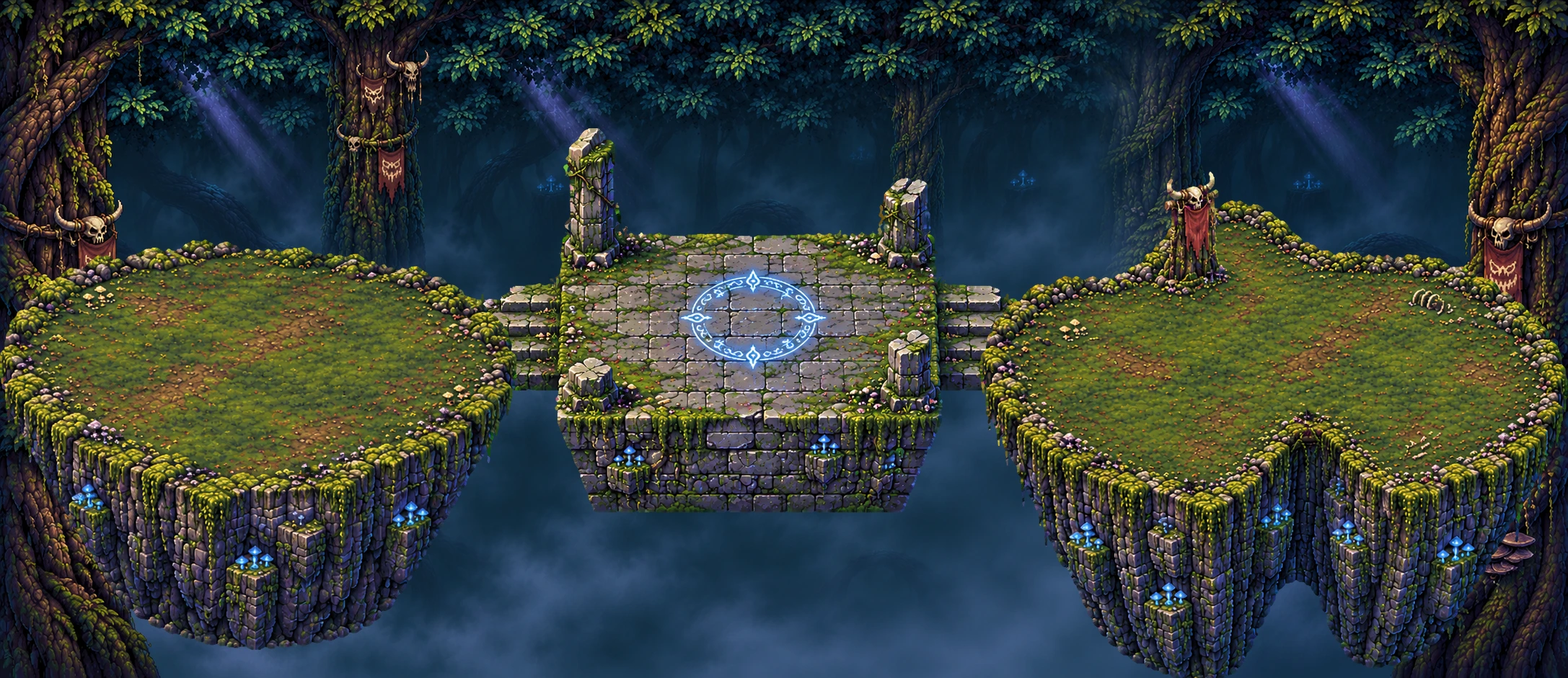
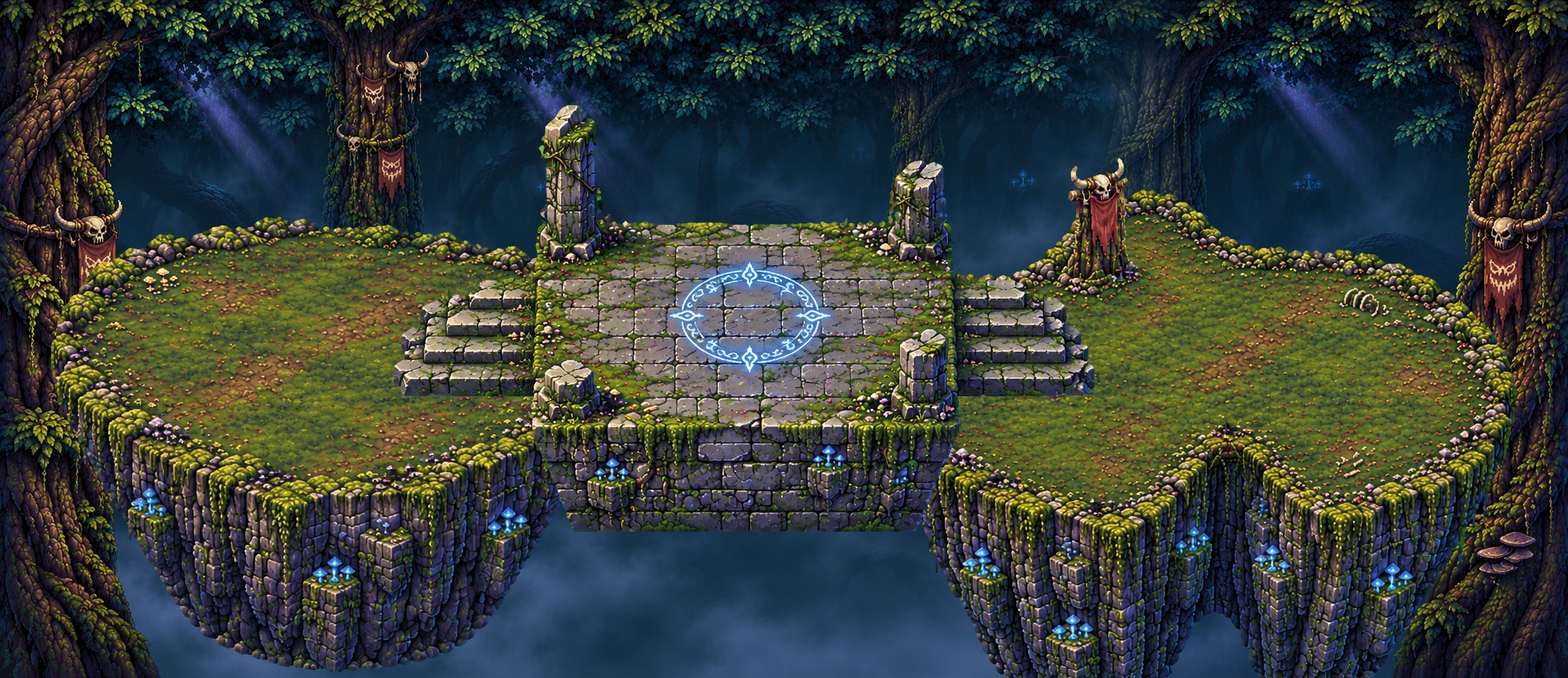
deep5：零件改回原尺寸 1.0、石台盖在两块空地上层；demo 加可走范围画笔编辑（加上/擦掉/恢复默认/复制结果）
Claude-Session: https://claude.ai/code/session_015MetZpZfHySQWDEPDS41Tu

diff --git a/demo/deep5.html b/demo/deep5.html
@@ -9,35 +9,55 @@ canvas{display:block;image-rendering:pixelated}
 #tg button{background:#2a2116;color:#ffd77a;border:2px solid #d9b45a;border-radius:6px;padding:5px 9px;font-size:13px}
 </style></head><body>
 <canvas id="c"></canvas>
-<div id="hud">森林深处 · 1.3 屏：两块空地 + 中间古石台<br>WASD / 方向键移动 · 空格翻滚<br>手机：左半屏拖动移动，右半屏点一下翻滚</div>
-<div id="tg"><button id="bMask">显示可走范围</button><button id="bFoe">再来 5 只</button></div>
+<div id="hud">森林深处 · 1.3 屏：两块空地 + 中间古石台<br>WASD / 方向键移动 · 空格翻滚<br>手机：左半屏拖动移动，右半屏点一下翻滚<br>编辑时用键盘移动勇者来挪镜头</div>
+<div id="tg"><button id="bMask">显示可走范围</button><button id="bFoe">再来 5 只</button><button id="bEd">编辑可走范围</button></div>
+<div id="ed" style="display:none;position:fixed;left:8px;bottom:8px;background:rgba(20,16,10,.92);border:2px solid #d9b45a;border-radius:8px;padding:8px;font-size:13px;line-height:2">
+<b style="color:#ffd77a">编辑可走范围</b>　左键 / 手指涂抹 = 加上，按住 Shift 或选「擦掉」= 去掉<br>
+<label><input type="radio" name="em" value="1" checked> 加上</label> <label><input type="radio" name="em" value="0"> 擦掉</label>
+　笔刷 <input type="range" id="brush" min="1" max="12" value="4" style="width:90px">
+　<button id="bReset">恢复默认</button> <button id="bCopy">复制结果发给我</button> <button id="bDone">完成</button>
+<textarea id="edOut" readonly style="display:block;width:100%;height:36px;margin-top:4px;background:#000;color:#9f9;font-size:11px"></textarea></div>
 <script src="js/data.js"></script><script src="js/sprites.js"></script>
 <script>
 // 11/25 局外 demo：哈迪斯式不规则房间。整张图 1672×941（坐标 = 原图像素），只有多边形里能走；镜头跟随，视野约 1/1.5 张图
-const cv = document.getElementById('c'), g = cv.getContext('2d'), BG = new Image(); BG.src = 'art/map/deep5.webp?v=1';
+const cv = document.getElementById('c'), g = cv.getContext('2d'), BG = new Image(); BG.src = 'art/map/deep5.webp?v=2';
 const MW = 2174, MH = 941, SW = 1672, SH = 941;   // 整张约 2 屏，镜头 1 屏 = 原图大小
-const PL = [[[51, 415], [103, 505], [103, 516], [114, 522], [152, 590], [197, 644], [241, 666], [292, 681], [353, 688], [456, 675], [488, 665], [518, 646], [555, 603], [659, 426], [575, 379], [531, 379], [492, 361], [429, 360], [418, 352], [326, 354], [324, 332], [258, 332], [255, 353], [211, 352], [185, 363], [140, 363], [121, 380], [102, 380], [89, 392], [66, 399]], [[1429, 414], [1453, 459], [1456, 480], [1478, 520], [1489, 529], [1531, 614], [1579, 655], [1664, 684], [1691, 680], [1717, 656], [1744, 594], [1775, 546], [1822, 549], [1837, 567], [1858, 624], [1884, 655], [1909, 662], [1964, 644], [2004, 603], [2052, 529], [2085, 464], [2100, 452], [2105, 432], [2086, 415], [2075, 413], [2064, 398], [2042, 392], [2023, 378], [2005, 378], [1990, 366], [1823, 355], [1801, 344], [1773, 314], [1737, 291], [1677, 287], [1667, 266], [1632, 273], [1625, 332], [1589, 372], [1551, 393], [1480, 392], [1464, 402], [1444, 402]], [[784, 321], [1288, 321], [1297, 583], [784, 591]], [[591, 397], [798, 397], [798, 541], [591, 541]], [[1279, 397], [1482, 397], [1482, 541], [1279, 541]]];
+const PL = [[[126, 393], [184, 492], [185, 506], [197, 512], [249, 602], [290, 648], [305, 651], [312, 661], [395, 689], [463, 697], [577, 683], [615, 671], [649, 649], [651, 640], [664, 635], [689, 602], [805, 405], [711, 351], [661, 351], [618, 331], [549, 330], [536, 321], [434, 323], [430, 300], [359, 300], [355, 322], [302, 322], [274, 336], [227, 333], [206, 352], [185, 352], [160, 371], [146, 372]], [[1274, 414], [1295, 465], [1301, 466], [1304, 488], [1329, 534], [1340, 542], [1370, 611], [1389, 640], [1440, 683], [1535, 716], [1562, 714], [1594, 687], [1644, 581], [1660, 562], [1704, 562], [1713, 567], [1728, 587], [1750, 648], [1780, 684], [1808, 692], [1868, 673], [1915, 626], [1958, 551], [1967, 545], [2005, 471], [2021, 458], [2028, 434], [2006, 415], [1993, 412], [1983, 397], [1956, 389], [1934, 373], [1914, 373], [1898, 360], [1714, 348], [1689, 336], [1657, 302], [1622, 279], [1557, 272], [1556, 256], [1543, 256], [1542, 248], [1500, 258], [1499, 311], [1480, 339], [1428, 383], [1411, 390], [1331, 389], [1312, 401], [1289, 401]], [[751, 305], [1311, 305], [1321, 597], [751, 605]], [[536, 390], [766, 390], [766, 550], [536, 550]], [[1301, 390], [1526, 390], [1526, 550], [1301, 550]]];
 function inPoly(x, y, p) { let c = false; for (let i = 0, j = p.length - 1; i < p.length; j = i++) { const [xi, yi] = p[i], [xj, yj] = p[j]; if ((yi > y) !== (yj > y) && x < (xj - xi) * (y - yi) / (yj - yi) + xi) c = !c; } return c; }
-const ok = (x, y) => PL.some(p => inPoly(x, y, p));
+// 11/25 可走范围 = 8 像素一格的格子图；默认由多边形生成，可以在「编辑」模式里用画笔改
+const CS = 8, GW = Math.ceil(MW / CS), GH = Math.ceil(MH / CS); let GRID = new Uint8Array(GW * GH);
+function gridFromPoly() { for (let j = 0; j < GH; j++) for (let i = 0; i < GW; i++) GRID[j * GW + i] = PL.some(p => inPoly(i * CS + 4, j * CS + 4, p)) ? 1 : 0; }
+function enc() { let o = '', c = GRID[0], n = 0; for (const v of GRID) { if (v === c) n++; else { o += n + ','; c = v; n = 1; } } return GW + 'x' + GH + ':' + GRID[0] + ':' + o + n; }
+function dec(s) { const [, f, r] = s.split(':'); let c = +f, k = 0; for (const n of r.split(',')) { GRID.fill(c, k, k + +n); k += +n; c ^= 1; } }
+try { const sv = localStorage.getItem('deep5-grid'); sv ? dec(sv) : gridFromPoly(); } catch (e) { gridFromPoly(); }
+const ok = (x, y) => { const i = x / CS | 0, j = y / CS | 0; return i >= 0 && j >= 0 && i < GW && j < GH && GRID[j * GW + i] === 1; };
 function move(o, dx, dy) { if (ok(o.x + dx, o.y + dy)) { o.x += dx; o.y += dy; return; } if (ok(o.x + dx, o.y)) o.x += dx; else if (ok(o.x, o.y + dy)) o.y += dy; }
 let VW = 1, VH = 1, SC = 1, zoom = 1.5, showMask = false;
 function fit() { cv.width = innerWidth; cv.height = innerHeight; VW = innerWidth; VH = innerHeight;
   // 视野宽 = 图宽 / zoom；手机竖屏按高度算，保证至少看到同样的高度
   SC = Math.max(VW / SW, VH / SH); }
 addEventListener('resize', fit); fit();
-const hero = { x: 300, y: 460, fx: 1, roll: 0, rcd: 0, rx: 0, ry: 0 }, foes = [];
+const hero = { x: 300, y: 500, fx: 1, roll: 0, rcd: 0, rx: 0, ry: 0 }, foes = [];
 const R = (a, b) => a + Math.random() * (b - a);
 function spawnFoes(n) { const T = ['gob_shield', 'gob_archer', 'gob_wolf']; for (let i = 0; i < n; i++) { let x, y, k = 0; do { const p = PL[Math.random() * PL.length | 0]; x = R(...[Math.min(...p.map(q => q[0])), Math.max(...p.map(q => q[0]))]); y = R(...[Math.min(...p.map(q => q[1])), Math.max(...p.map(q => q[1]))]); } while ((!ok(x, y) || Math.hypot(x - hero.x, y - hero.y) < 200) && ++k < 200); foes.push({ x, y, t: T[i % 3], sp: R(55, 85) }); } }
 spawnFoes(6);
 const K = {}; addEventListener('keydown', e => { K[e.code] = 1; if (e.code === 'Space') doRoll(); }); addEventListener('keyup', e => K[e.code] = 0);
-let joy = null; cv.addEventListener('pointerdown', e => { if (e.clientX < VW / 2) joy = { id: e.pointerId, x0: e.clientX, y0: e.clientY, x: e.clientX, y: e.clientY }; else doRoll(); });
-addEventListener('pointermove', e => { if (joy && e.pointerId === joy.id) { joy.x = e.clientX; joy.y = e.clientY; } }); addEventListener('pointerup', e => { if (joy && e.pointerId === joy.id) joy = null; });
+let joy = null, EDIT = false, paint = null; cv.addEventListener('pointerdown', e => { if (EDIT) { paint = e.pointerId; doPaint(e); return; } if (e.clientX < VW / 2) joy = { id: e.pointerId, x0: e.clientX, y0: e.clientY, x: e.clientX, y: e.clientY }; else doRoll(); });
+addEventListener('pointermove', e => { if (EDIT && paint === e.pointerId) doPaint(e); if (joy && e.pointerId === joy.id) { joy.x = e.clientX; joy.y = e.clientY; } }); addEventListener('pointerup', e => { if (e.pointerId === paint) { paint = null; save(); } if (joy && e.pointerId === joy.id) joy = null; });
 function input() { let x = (K.KeyD || K.ArrowRight ? 1 : 0) - (K.KeyA || K.ArrowLeft ? 1 : 0), y = (K.KeyS || K.ArrowDown ? 1 : 0) - (K.KeyW || K.ArrowUp ? 1 : 0);
   if (joy) { const dx = joy.x - joy.x0, dy = joy.y - joy.y0, d = Math.hypot(dx, dy); if (d > 8) { x = dx / Math.max(d, 40); y = dy / Math.max(d, 40); } }
   const d = Math.hypot(x, y); return d > 1 ? [x / d, y / d] : [x, y]; }
 function doRoll() { if (hero.rcd > 0) return; const [x, y] = input(); hero.rx = x || hero.fx; hero.ry = y; const d = Math.hypot(hero.rx, hero.ry); hero.rx /= d; hero.ry /= d; hero.roll = .28; hero.rcd = .8; }
 document.getElementById('bMask').onclick = e => { showMask = !showMask; e.target.textContent = showMask ? '隐藏可走范围' : '显示可走范围'; };
 document.getElementById('bFoe').onclick = () => spawnFoes(5);
+let camX = 0, camY = 0; const E = id => document.getElementById(id);
+function save() { try { localStorage.setItem('deep5-grid', enc()); } catch (e) {} E('edOut').value = enc(); }
+function doPaint(e) { const x = (e.clientX - VW / 2) / SC + camX, y = (e.clientY - VH / 2) / SC + camY, r = +E('brush').value, v = e.shiftKey ? 0 : +document.querySelector('input[name=em]:checked').value, ci = x / CS | 0, cj = y / CS | 0;
+  for (let j = cj - r; j <= cj + r; j++) for (let i = ci - r; i <= ci + r; i++) if (i >= 0 && j >= 0 && i < GW && j < GH && (i - ci) ** 2 + (j - cj) ** 2 <= r * r) GRID[j * GW + i] = v; }
+E('bEd').onclick = () => { EDIT = true; showMask = true; E('ed').style.display = 'block'; E('edOut').value = enc(); };
+E('bDone').onclick = () => { EDIT = false; E('ed').style.display = 'none'; save(); };
+E('bReset').onclick = () => { gridFromPoly(); save(); };
+E('bCopy').onclick = () => { E('edOut').select(); try { navigator.clipboard.writeText(E('edOut').value); } catch (e) { document.execCommand('copy'); } E('bCopy').textContent = '已复制'; };
 let cam = { x: hero.x, y: hero.y }, last = performance.now(), T = 0;
 function fr(set, names) { const S = SPR.sets[set]; if (!S || !S.f) return null; for (const n of names) if (S.f[n]) return n; return S.f.idle0 ? 'idle0' : Object.keys(S.f)[0]; }
 function anim(set, base, sp) { const S = SPR.sets[set]; if (!S || !S.f) return null; let c = 0; while (S.f[base + c]) c++; return c ? base + (Math.floor(T * sp) % c) : fr(set, [base, 'idle0']); }
@@ -50,11 +70,11 @@ function loop(now) { const dt = Math.min(.05, (now - last) / 1000); last = now; 
   for (let i = 0; i < foes.length; i++) for (let j = i + 1; j < foes.length; j++) { const a = foes[i], b = foes[j], dx = b.x - a.x, dy = b.y - a.y, d = Math.hypot(dx, dy) || 1; if (d < 24) { const p = (24 - d) / 2; move(a, -dx / d * p, -dy / d * p); move(b, dx / d * p, dy / d * p); } }
   // 镜头：平滑跟随，夹在图内
   const hw = VW / SC / 2, hh = VH / SC / 2; cam.x += (hero.x - cam.x) * Math.min(1, dt * 6); cam.y += (hero.y - cam.y) * Math.min(1, dt * 6);
-  const cx = Math.max(hw, Math.min(MW - hw, cam.x)), cy = Math.max(hh, Math.min(MH - hh, cam.y));
+  const cx = Math.max(hw, Math.min(MW - hw, cam.x)), cy = Math.max(hh, Math.min(MH - hh, cam.y)); camX = cx; camY = cy;
   g.setTransform(1, 0, 0, 1, 0, 0); g.fillStyle = '#0b1014'; g.fillRect(0, 0, VW, VH);
   g.setTransform(SC, 0, 0, SC, Math.round(VW / 2 - cx * SC), Math.round(VH / 2 - cy * SC)); g.imageSmoothingEnabled = false;
   if (BG.complete && BG.naturalWidth) g.drawImage(BG, 0, 0, MW, MH);
-  if (showMask) { g.fillStyle = 'rgba(80,255,80,.28)'; g.strokeStyle = '#f33'; g.lineWidth = 2 / SC; for (const p of PL) { g.beginPath(); p.forEach(([x, y], i) => i ? g.lineTo(x, y) : g.moveTo(x, y)); g.closePath(); g.fill(); g.stroke(); } }
+  if (showMask) { g.fillStyle = 'rgba(80,255,80,.32)'; for (let j = 0; j < GH; j++) for (let i = 0; i < GW; i++) if (GRID[j * GW + i]) g.fillRect(i * CS, j * CS, CS, CS); }
   const all = [...foes.map(f => ({ o: f, y: f.y, f: 1 })), { o: hero, y: hero.y }].sort((a, b) => a.y - b.y);
   for (const e of all) { const o = e.o; g.fillStyle = 'rgba(0,0,0,.35)'; g.beginPath(); g.ellipse(o.x, o.y, 13, 5, 0, 0, 7); g.fill();
     if (e.f) { const nm = SPR.sets[o.t] && anim(o.t, 'walk', 9); if (nm) SPR.draw(g, o.t, nm, 0, o.x, o.y, hero.x < o.x, .9); else { g.fillStyle = '#7c4'; g.beginPath(); g.arc(o.x, o.y - 12, 11, 0, 7); g.fill(); } }

diff --git a/tools/build_deep5.py b/tools/build_deep5.py
@@ -21,7 +21,7 @@ def surf2(im):
     m=cv2.erode(m,np.ones((15,15),np.uint8))
     c,_=cv2.findContours(m,cv2.RETR_EXTERNAL,cv2.CHAIN_APPROX_SIMPLE); c=max(c,key=cv2.contourArea)
     return cv2.approxPolyDP(c,4,True)[:,0].tolist()
-K=.9
+K=1.0
 def sc(im): return im.resize((round(im.width*K),round(im.height*K)),Image.LANCZOS)
 (Li,_),(Ri,_),(Si,so)=key('c91c9caf-image.png'),key('e02b91af-image.png'),key('12a544f2-image.png')
 for n,im in (('L5',Li),('R5',Ri),('S5',Si)): im.save(n+'.png')
@@ -36,11 +36,11 @@ A=np.zeros((H,W,3)); A[:,:1672]=b1; ov=160; R=b2[:,1672-(W-1672)-ov:]; t=np.lins
 A[:,1672-ov:1672]=A[:,1672-ov:1672]*(1-t)+R[:,:ov]*t; A[:,1672:]=R[:,ov:]
 cv_=Image.fromarray(A.astype(np.uint8)).convert('RGBA')
 cy=lambda s:np.mean([p[1] for p in s])
-tuck=130*K; tot=Li.width+Si.width-2*tuck+Ri.width; xL=int((W-tot)/2); xS=int(xL+Li.width-tuck); xR=int(xS+Si.width-tuck)
+tuck=(Li.width+Si.width+Ri.width-(W-140))/2; tot=Li.width+Si.width-2*tuck+Ri.width; xL=int((W-tot)/2); xS=int(xL+Li.width-tuck); xR=int(xS+Si.width-tuck)
 yL=int(470-cy(sL)); yS=int(470-np.mean([p[1] for p in stL])); yR=int(470-cy(sR))
-cv_.alpha_composite(Si,(xS,yS)); cv_.alpha_composite(Li,(xL,yL)); cv_.alpha_composite(Ri,(xR,yR))
+cv_.alpha_composite(Li,(xL,yL)); cv_.alpha_composite(Ri,(xR,yR)); cv_.alpha_composite(Si,(xS,yS))
 polys=[[[x+xL,y+yL] for x,y in sL],[[x+xR,y+yR] for x,y in sR]]+[[[x+xS,y+yS] for x,y in p] for p in (top,stL,stR)]
-print(W,tot,xL,xS,xR,yL,yS,yR)
+print('tuck',tuck,W,tot,xL,xS,xR,yL,yS,yR)
 cv_.convert('RGB').save('/home/claude/xiangsuyongzhe/art/map/deep5.webp',quality=92)
 json.dump({'w':W,'h':H,'poly':[[[int(a),int(b)] for a,b in p] for p in polys]},open('deep5.json','w'))
 o=np.array(cv_.convert('RGB')); v=o.copy()
